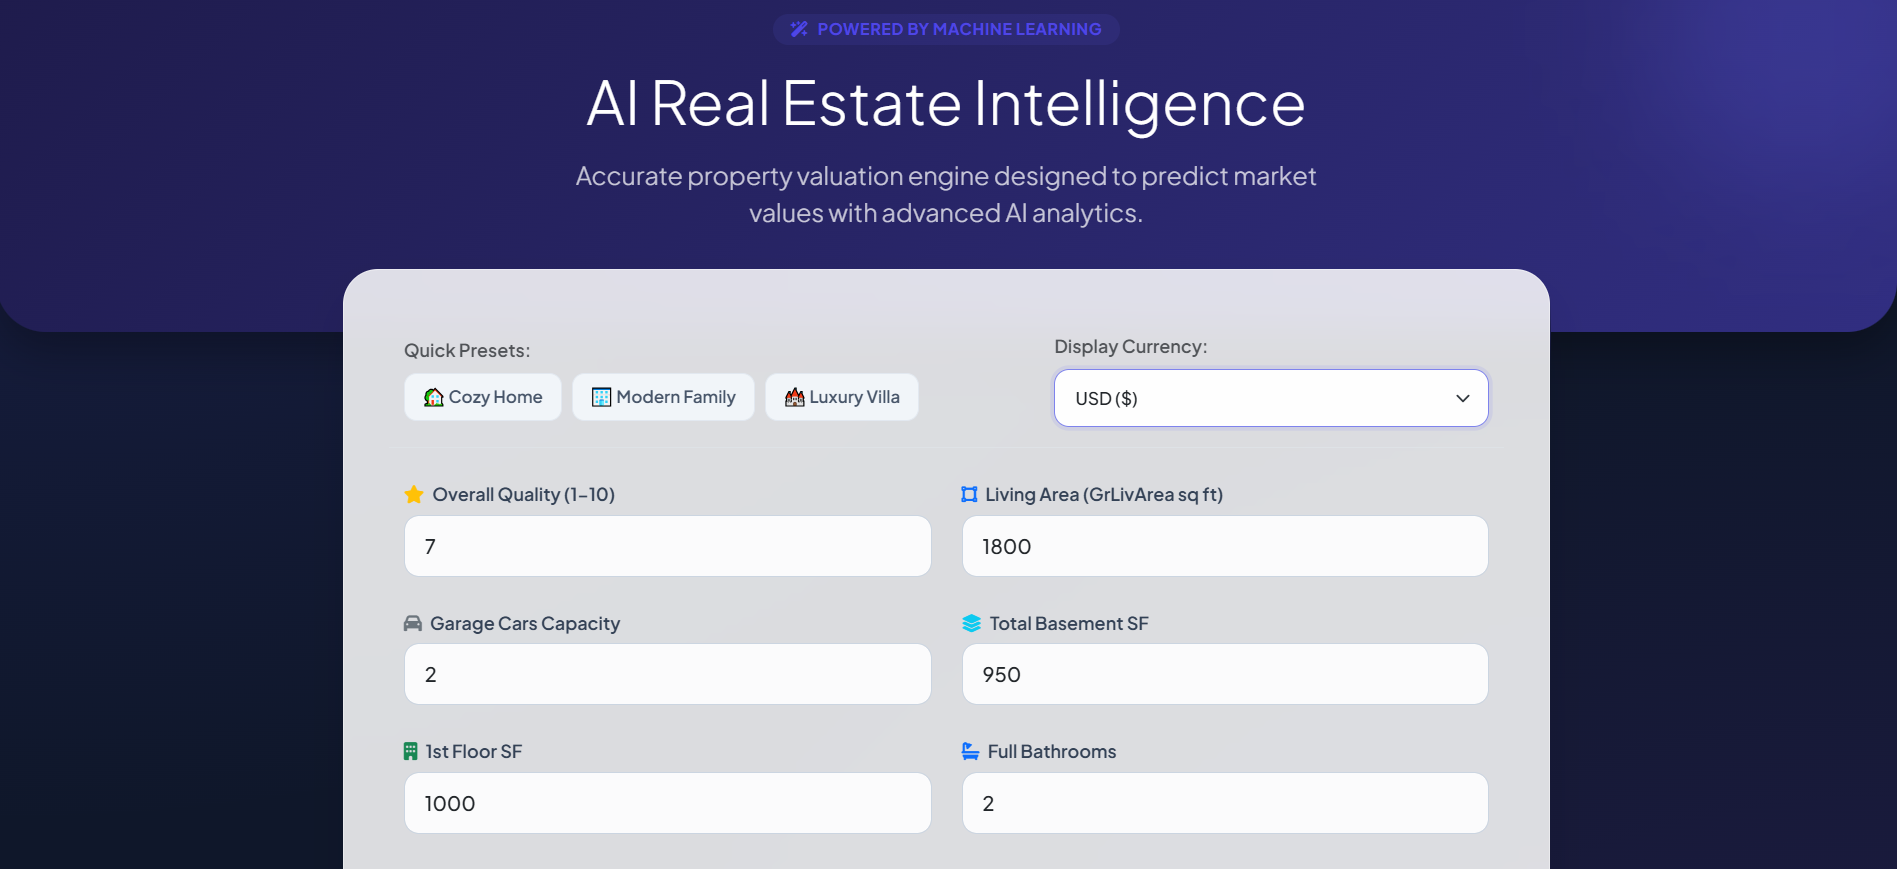
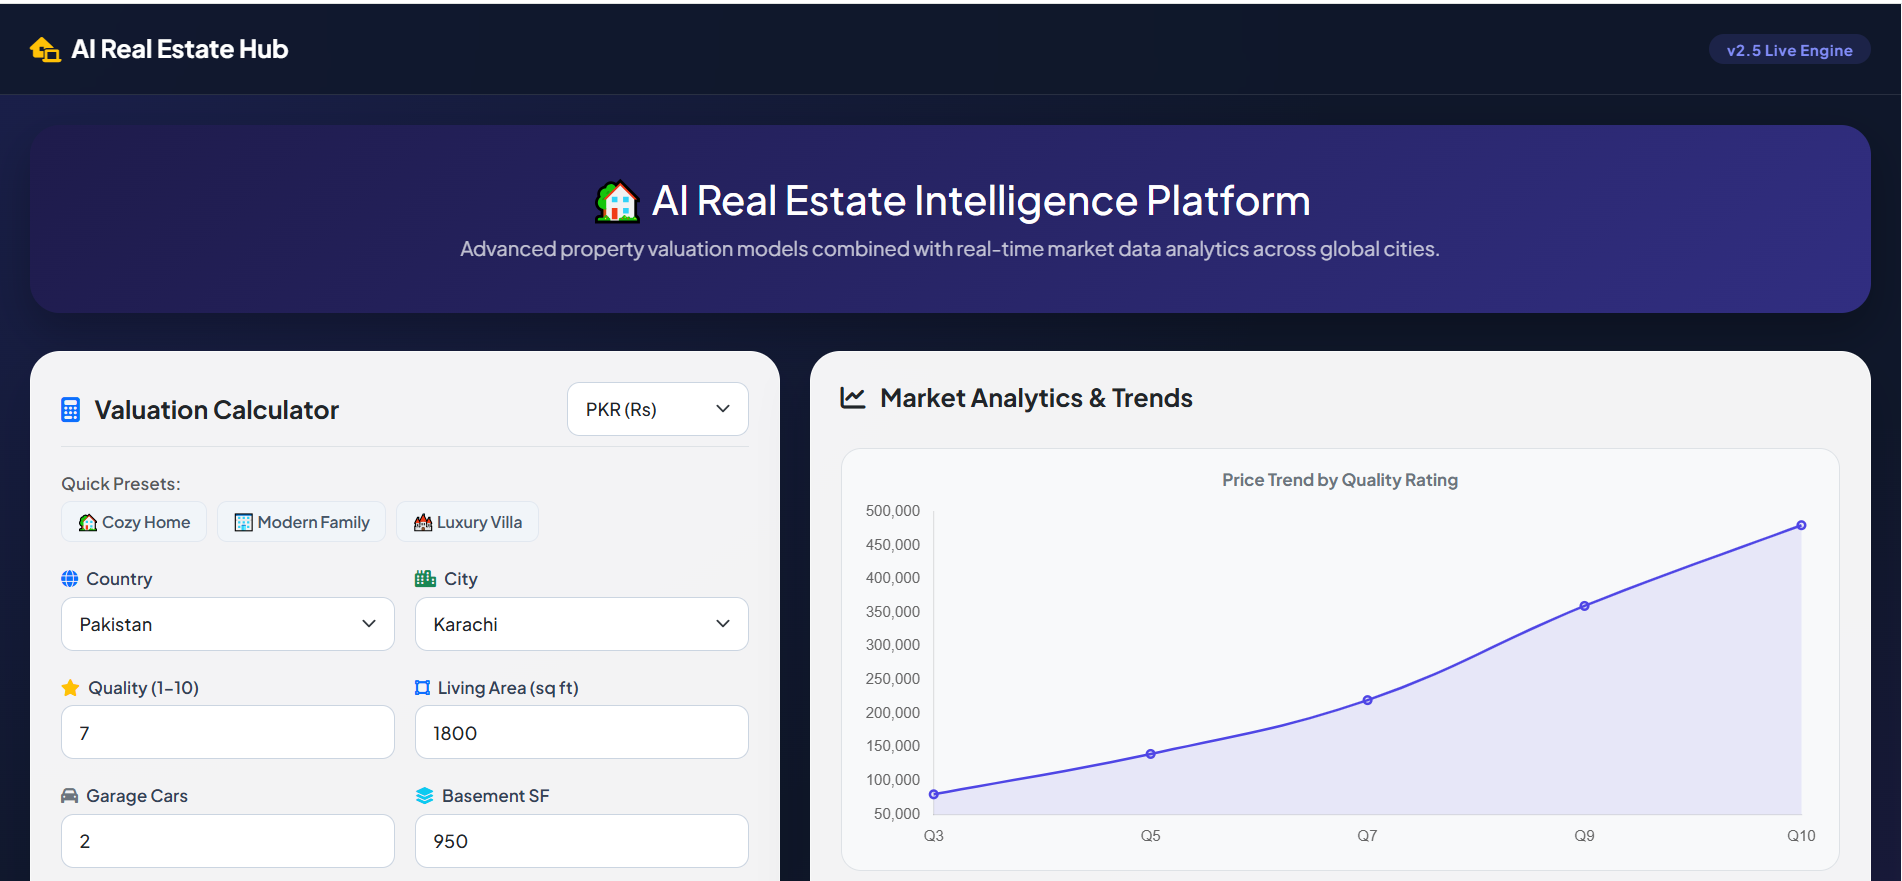
Update README, add sample images, and integrate country/city features

diff --git a/app/templates/index.html b/app/templates/index.html
@@ -31,14 +31,12 @@
             padding-bottom: 50px;
         }
 
-        /* Navbar Style */
         .navbar-custom {
             background: rgba(15, 23, 42, 0.85);
             backdrop-filter: blur(12px);
             border-bottom: 1px solid rgba(255, 255, 255, 0.1);
         }
 
-        /* Hero Header */
         .hero-banner {
             background: linear-gradient(135deg, #1e1b4b 0%, #312e81 100%);
             color: white;
@@ -46,8 +44,6 @@
             border-radius: 24px;
             box-shadow: 0 15px 35px rgba(0,0,0,0.25);
             margin-bottom: 30px;
-            position: relative;
-            overflow: hidden;
         }
 
         .panel-box {
@@ -136,7 +132,7 @@
     <nav class="navbar navbar-custom navbar-dark py-3 mb-4">
         <div class="container-fluid px-4">
             <a class="navbar-brand fw-bold fs-5 d-flex align-items-center" href="#">
-                <i class="fa-solid fa-house-laptop text-indigo-400 me-2 text-warning"></i> AI Real Estate Hub
+                <i class="fa-solid fa-house-laptop text-warning me-2"></i> AI Real Estate Hub
             </a>
             <span class="badge badge-ai">v2.5 Live Engine</span>
         </div>
@@ -153,7 +149,7 @@
             </p>
         </div>
 
-        <!-- Dashboard Grid Layout (Side by Side) -->
+        <!-- Dashboard Grid Layout -->
         <div class="row g-4">
             
             <!-- Left Panel: Prediction Calculator Form -->
@@ -161,7 +157,9 @@
                 <div class="panel-box p-4 p-md-4">
                     <div class="d-flex justify-content-between align-items-center mb-3 pb-2 border-bottom">
                         <h5 class="fw-bold mb-0 text-dark"><i class="fa-solid fa-calculator text-primary me-2"></i> Valuation Calculator</h5>
-                        <select id="currency-select" class="form-select form-select-sm w-auto">
+                        
+                        <!-- Fixed Currency Dropdown with proper width -->
+                        <select id="currency-select" class="form-select form-select-sm" style="width: 145px; padding-right: 28px;">
                             <option value="USD" selected>USD ($)</option>
                             <option value="PKR">PKR (₨)</option>
                             <option value="EUR">EUR (€)</option>

diff --git a/app/main.py b/app/main.py
@@ -54,7 +54,6 @@ def predict_price(features: HouseFeatures):
   if model is None:
     raise HTTPException(status_code=500, detail="Model file not found!")
 
-  # Input data for the ML model (using the 8 numerical features)
   input_data = np.array([[
       features.OverallQual,
       features.GrLivArea,
@@ -68,12 +67,14 @@ def predict_price(features: HouseFeatures):
 
   base_prediction = model.predict(input_data)[0]
 
-  # Optional location-based multiplier logic to make it realistic per city/country
+  # Location multiplier logic
   multiplier = 1.0
-  if features.city.lower() in ["karachi", "lahore", "islamabad"]:
-    multiplier = 0.85  # Regional adjustment example
-  elif features.city.lower() in ["new york", "london", "dubai"]:
-    multiplier = 1.35
+  if features.city.lower() in ["karachi", "lahore", "islamabad", "faisalabad"]:
+    multiplier = 0.85
+  elif features.city.lower() in ["dubai", "abu dhabi"]:
+    multiplier = 1.40
+  elif features.city.lower() in ["new york", "london"]:
+    multiplier = 1.60
 
   final_price = base_prediction * multiplier
 

diff --git a/README.md b/README.md
@@ -10,7 +10,7 @@
 [![License: MIT](https://img.shields.io/badge/License-MIT-green.svg?style=for-the-badge)](https://opensource.org/licenses/MIT)
 
 <p align="center">
-  <b>Instant property market valuations powered by advanced Machine Learning regression models and a modern glassmorphism web interface.</b>
+  <b>Instant property market valuations, global location analytics, and dynamic interactive charts powered by advanced Machine Learning regression models.</b>
 </p>
 
 </div>
@@ -20,10 +20,11 @@
 ## ✨ Key Highlights & Features
 
 - **🤖 High-Precision ML Model**: Powered by a trained `scikit-learn` regression model (`house_price_model.pkl`) optimized for real estate appraisal.
-- **💎 Glassmorphism Dashboard UI**: A breathtaking, responsive user interface styled with custom CSS gradients, Google Fonts (*Plus Jakarta Sans*), and FontAwesome icons.
-- **💱 Multi-Currency Converter**: Dynamic, real-time conversion engine supporting **USD ($), Pakistani Rupees (PKR ₨), Euros (€), British Pounds (£), UAE Dirham (AED), and Indian Rupees (INR ₹)**.
+- **🌍 Global Country & City Selector**: Dynamic cascading dropdowns supporting multiple countries (Pakistan, UAE, USA, UK, India) and key international cities.
+- **📊 Real-Time Market Analytics**: Built-in interactive **Chart.js** graphs displaying price trends by quality rating and regional valuation multipliers.
+- **💎 Glassmorphism Dashboard UI**: A breathtaking, responsive side-by-side user interface styled with custom CSS gradients, Google Fonts (*Plus Jakarta Sans*), and FontAwesome icons.
+- **💱 Multi-Currency Converter**: Real-time conversion engine supporting **USD ($), Pakistani Rupees (PKR ₨), Euros (€), British Pounds (£), UAE Dirham (AED), and Indian Rupees (INR ₹)**.
 - **⚡ Quick Property Presets**: One-click preset selectors (*Cozy Home*, *Modern Family*, *Luxury Villa*) for instantaneous testing and evaluation.
-- **🚀 Interactive API Documentation**: Fully automated OpenAPI endpoints and Swagger UI integrated directly via FastAPI (`/docs`).
 
 ---
 
@@ -36,7 +37,7 @@ ai-realestate-platform/
 │   ├── __init__.py
 │   ├── main.py              # FastAPI application core & route controllers
 │   └── templates/
-│       └── index.html       # Responsive frontend dashboard UI
+│       └── index.html       # Responsive frontend dashboard UI & Chart.js integration
 │
 ├── models/
 │   └── house_price_model.pkl # Trained Scikit-Learn regression model
